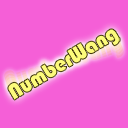
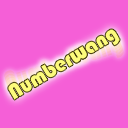
Corrected capitalisation

diff --git a/background.js b/background.js
@@ -2,14 +2,13 @@ function notify(callback) {
 	var id = Math.floor(Math.random() * 1000);
 	chrome.notifications.create(`numberwang-${id}`, {
 		type: 'basic',
-		title: 'NumberWang',
-		message: 'That’s NumberWang!',
+		title: 'Numberwang',
+		message: 'That’s Numberwang!',
 		iconUrl: 'icons/numberwang-256.png',
 	}, callback);
 }
 
 chrome.runtime.onMessage.addListener(function (message, sender, sendResponse) {
-	console.log('Got message', message, sender);
 	if (sender.tab && message.action === 'thatsNumberwang') {
 		notify(function () {
 			sendResponse();

diff --git a/numberwang.css b/numberwang.css
@@ -11,6 +11,7 @@ body.numberwang-rotate-the-board {
 
 .numberwang-rotate-the-other-side {
     backface-visibility: hidden;
+    background-color: black;
     background-size: cover;
     position: absolute;
     top: 0;
@@ -18,5 +19,5 @@ body.numberwang-rotate-the-board {
     right: 0;
     bottom: 0;
     transform: rotateY(0.5turn);
-    z-index: 1;
+    z-index: 100000;
 }

diff --git a/numberwang.js b/numberwang.js
@@ -142,7 +142,7 @@
 
 			// Wait until notification has appeared before showing the alert
 			msgCallback = function () {
-				alert('It’s time for WangerNumb!\n\nLet’s rotate the board.');
+				alert('It’s time for Wangernumb!\n\nLet’s rotate the board.');
 				document.body.classList.add(cssClasses.rotate);
 			};
 		}
